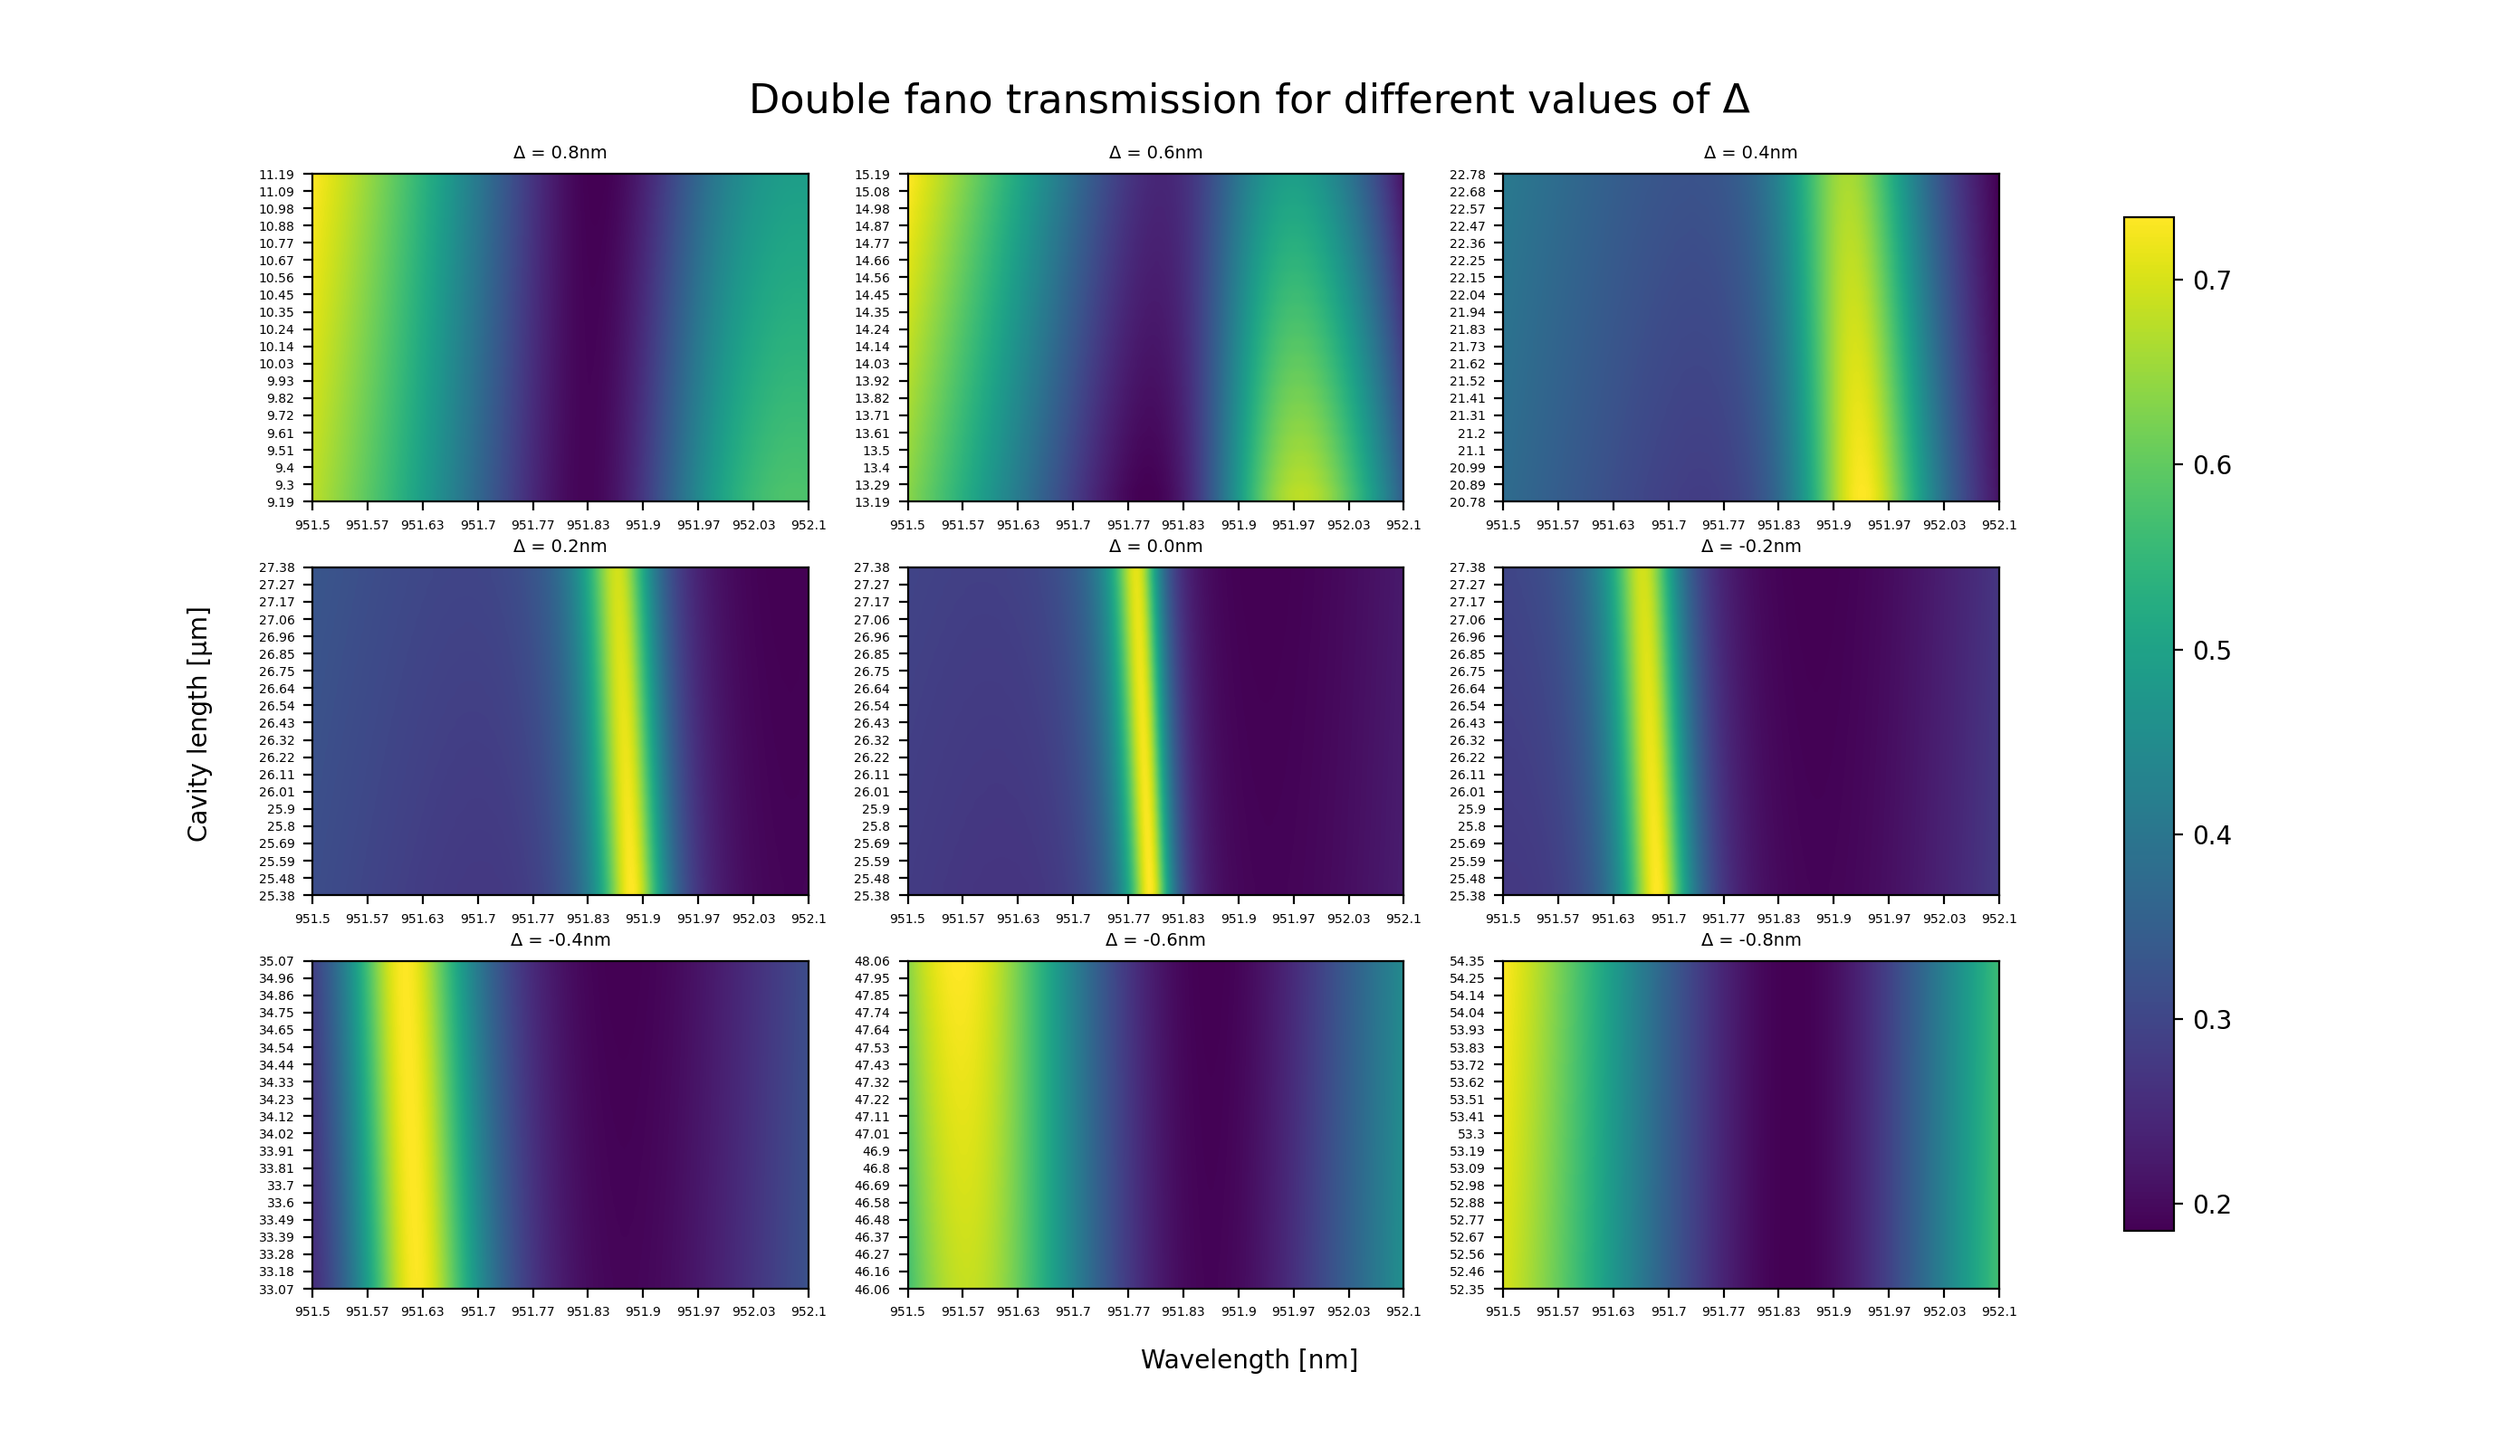
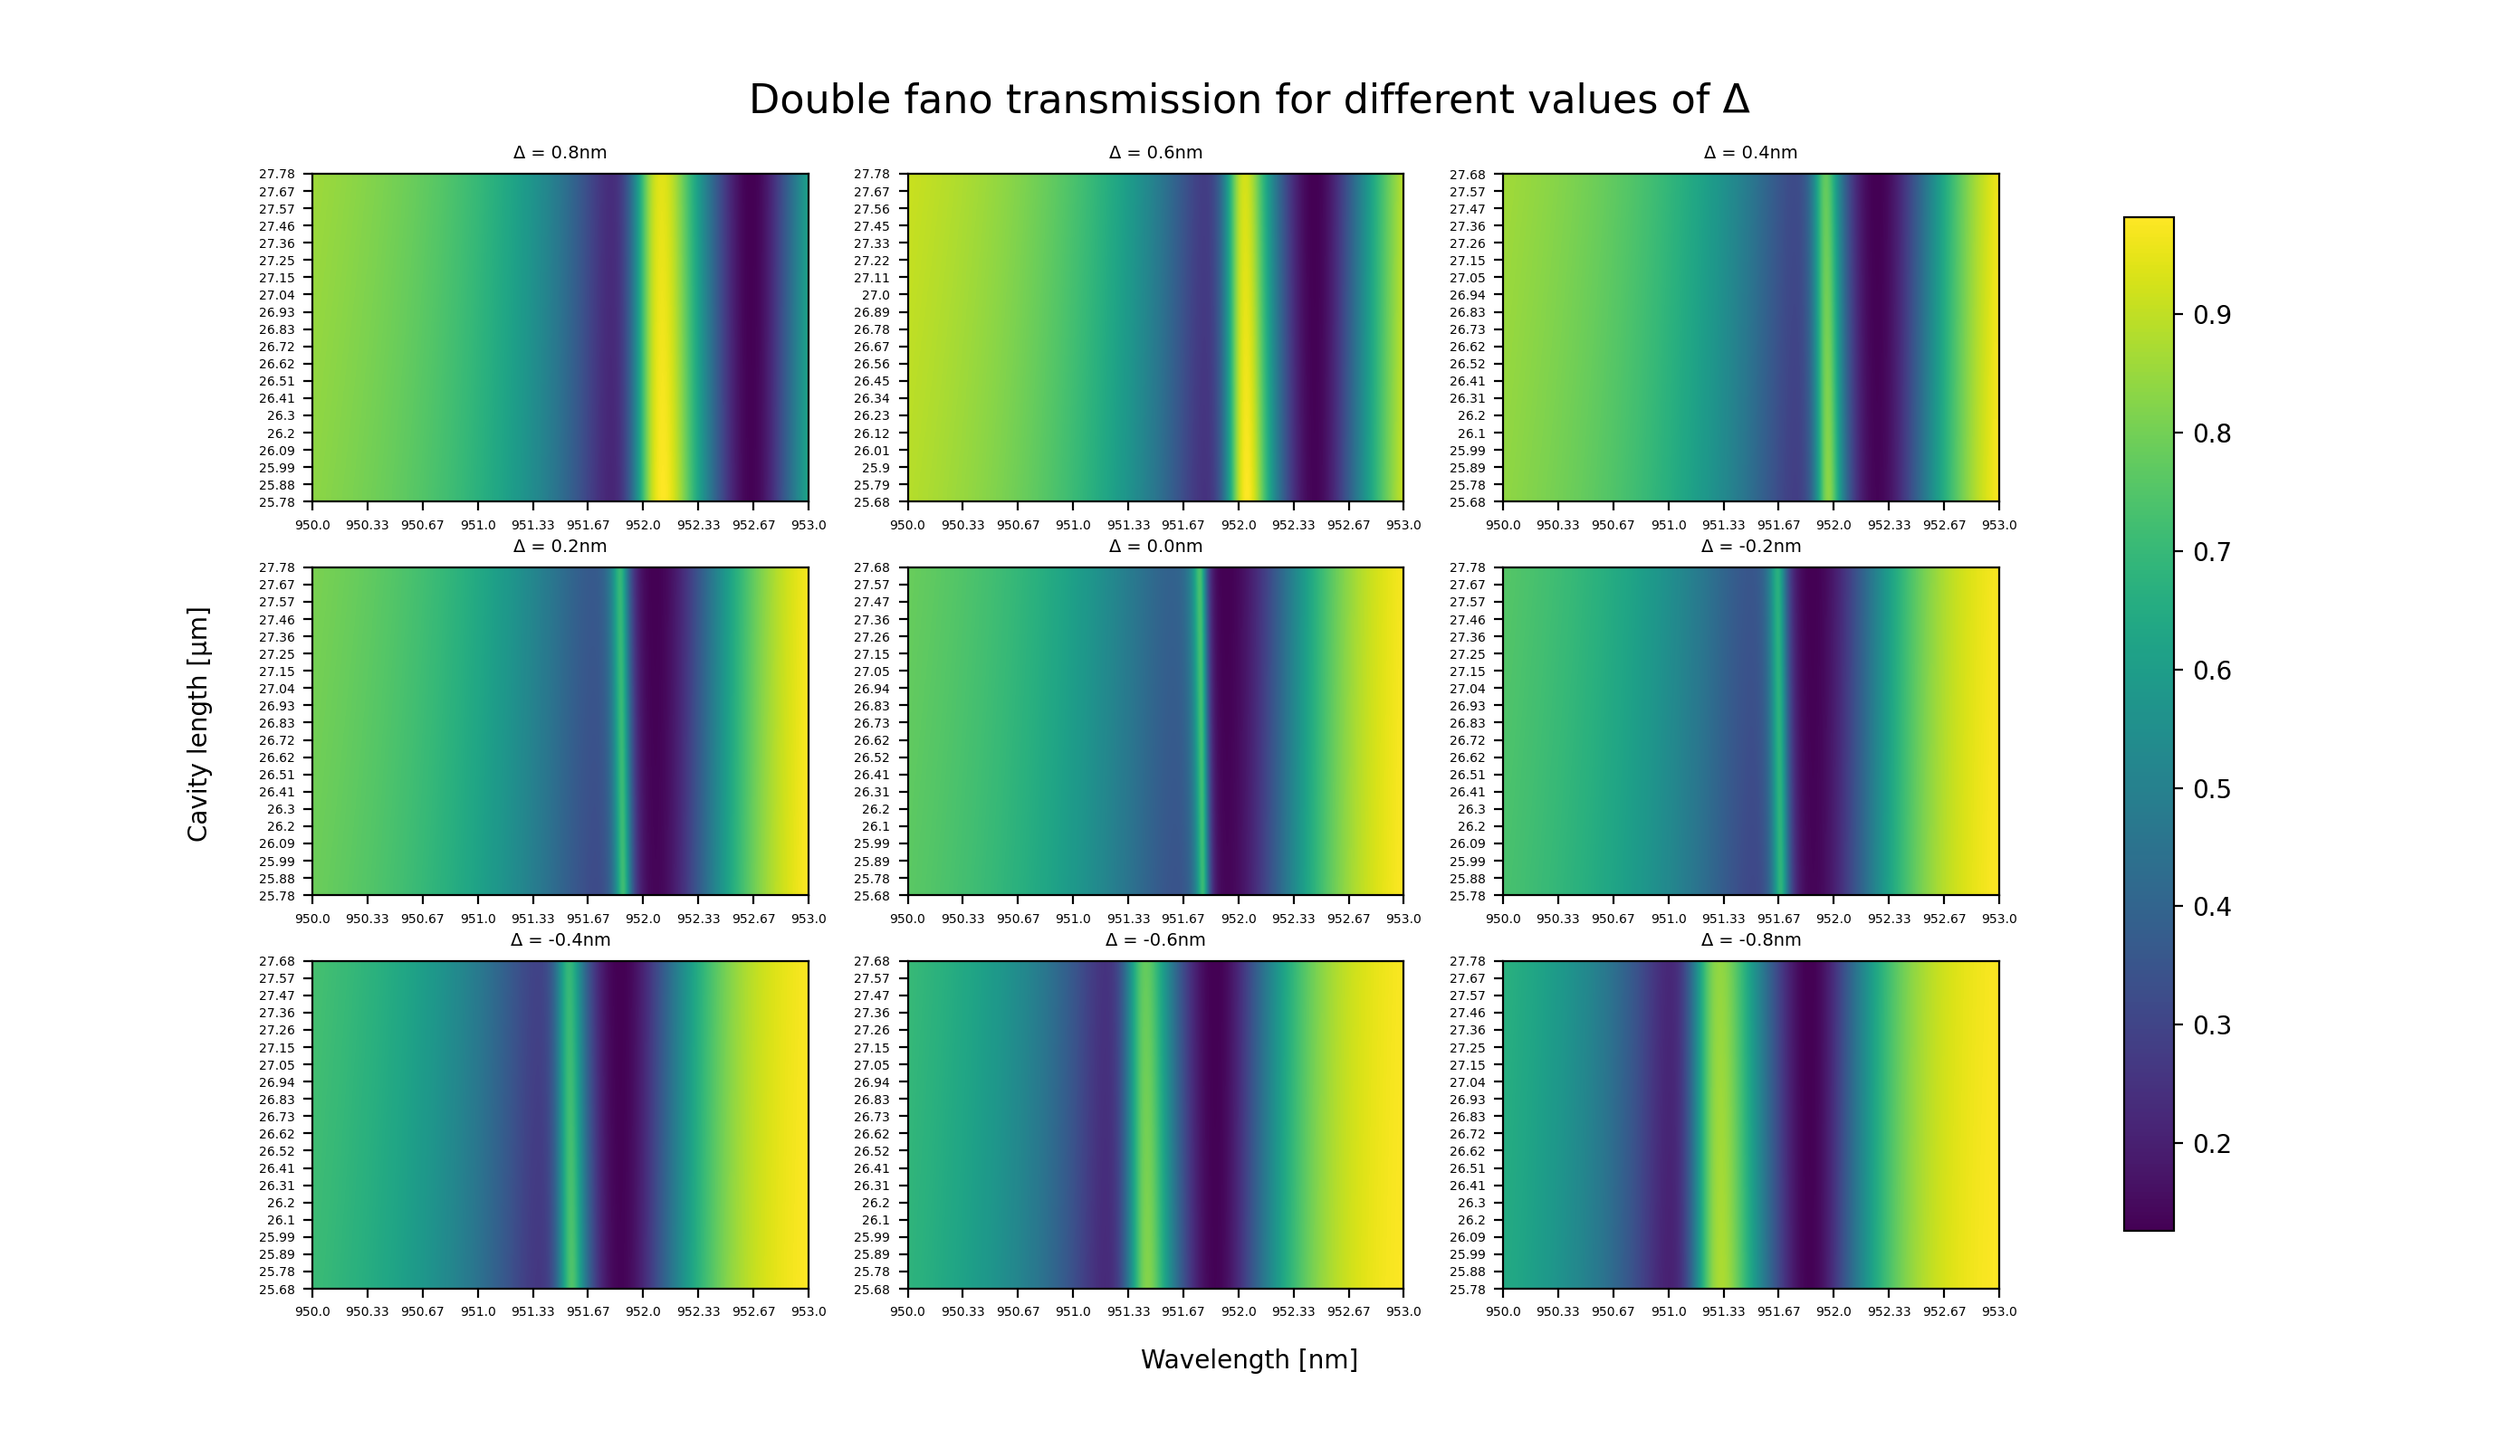
-

diff --git a/fano_theory.py b/fano_theory.py
@@ -29,8 +29,8 @@ params2 = M3.lossy_fit([952,952,0.6,1,0.1])
 #grating1 = [950, 950, 0.81, 0.48, 9e-7]
 #grating2 = [950+Δ, 950+Δ, 0.81, 0.48, 9e-7]   
 
-λs_range = np.linspace(950, 953, 1000)
-#λs_range = np.linspace(949.9, 950.1, 100)
+#λs_range = np.linspace(950, 953, 1000)
+λs_range = np.linspace(949.9, 950.1, 100)
 
 def model(λ, λ0, λ1, td, γλ, β): 
     k = 2*np.pi / λ
@@ -43,11 +43,11 @@ def model(λ, λ0, λ1, td, γλ, β):
 def theoretical_reflection_values(params: list):
     λ0s, λ1s, tds, γλs, βs = params
     γs = 2*np.pi / λ1s**2 * γλs
-    a = tds * ((2*np.pi / λ1s) - (2*np.pi / λ0s) - 1j*γs)
+    a = tds * ((2*np.pi / λ1s) - (2*np.pi / λ0s) + 1j*βs - 1j*γs)
     xas = np.real(a)
     yas = np.imag(a)
 
-    L = 0.06
+    L = 0.015
     c_squared = L * (γs**2 + (2*np.pi/λ0s - 2*np.pi/λ1s)**2)
 
     rds = np.sqrt(1 - tds**2)
@@ -380,8 +380,8 @@ def line_width_comparison(params1: list, params2: list, length: float):
 
 #### Double/single fano cavity transmission plots ####
 
-#length = resonant_cavity_length(params1)
-#fano_cavity_transmission_plot(params1)
+#length = resonant_cavity_length(params2)
+#fano_cavity_transmission_plot(params2)
 
 #length = double_cavity_length(params1, params2)
 #dual_fano_transmission_plot(params1, params2, length)
@@ -389,9 +389,9 @@ def line_width_comparison(params1: list, params2: list, length: float):
 
 #### for arbitrary line width comparison of the single and double fano models ####
 
-#grating1 = [950, 950, 0.81, 0.48, 9e-7]
-#grating2 = grating1
-#line_width_comparison(grating1, grating2, double_cavity_length(grating1, grating2))
+grating1 = [950, 950, 0.81, 0.48, 9e-7]
+grating2 = grating1
+line_width_comparison(grating1, grating2, double_cavity_length(grating1, grating2))
 
 
 #### plotting the calculated reflection/transmission values ####
